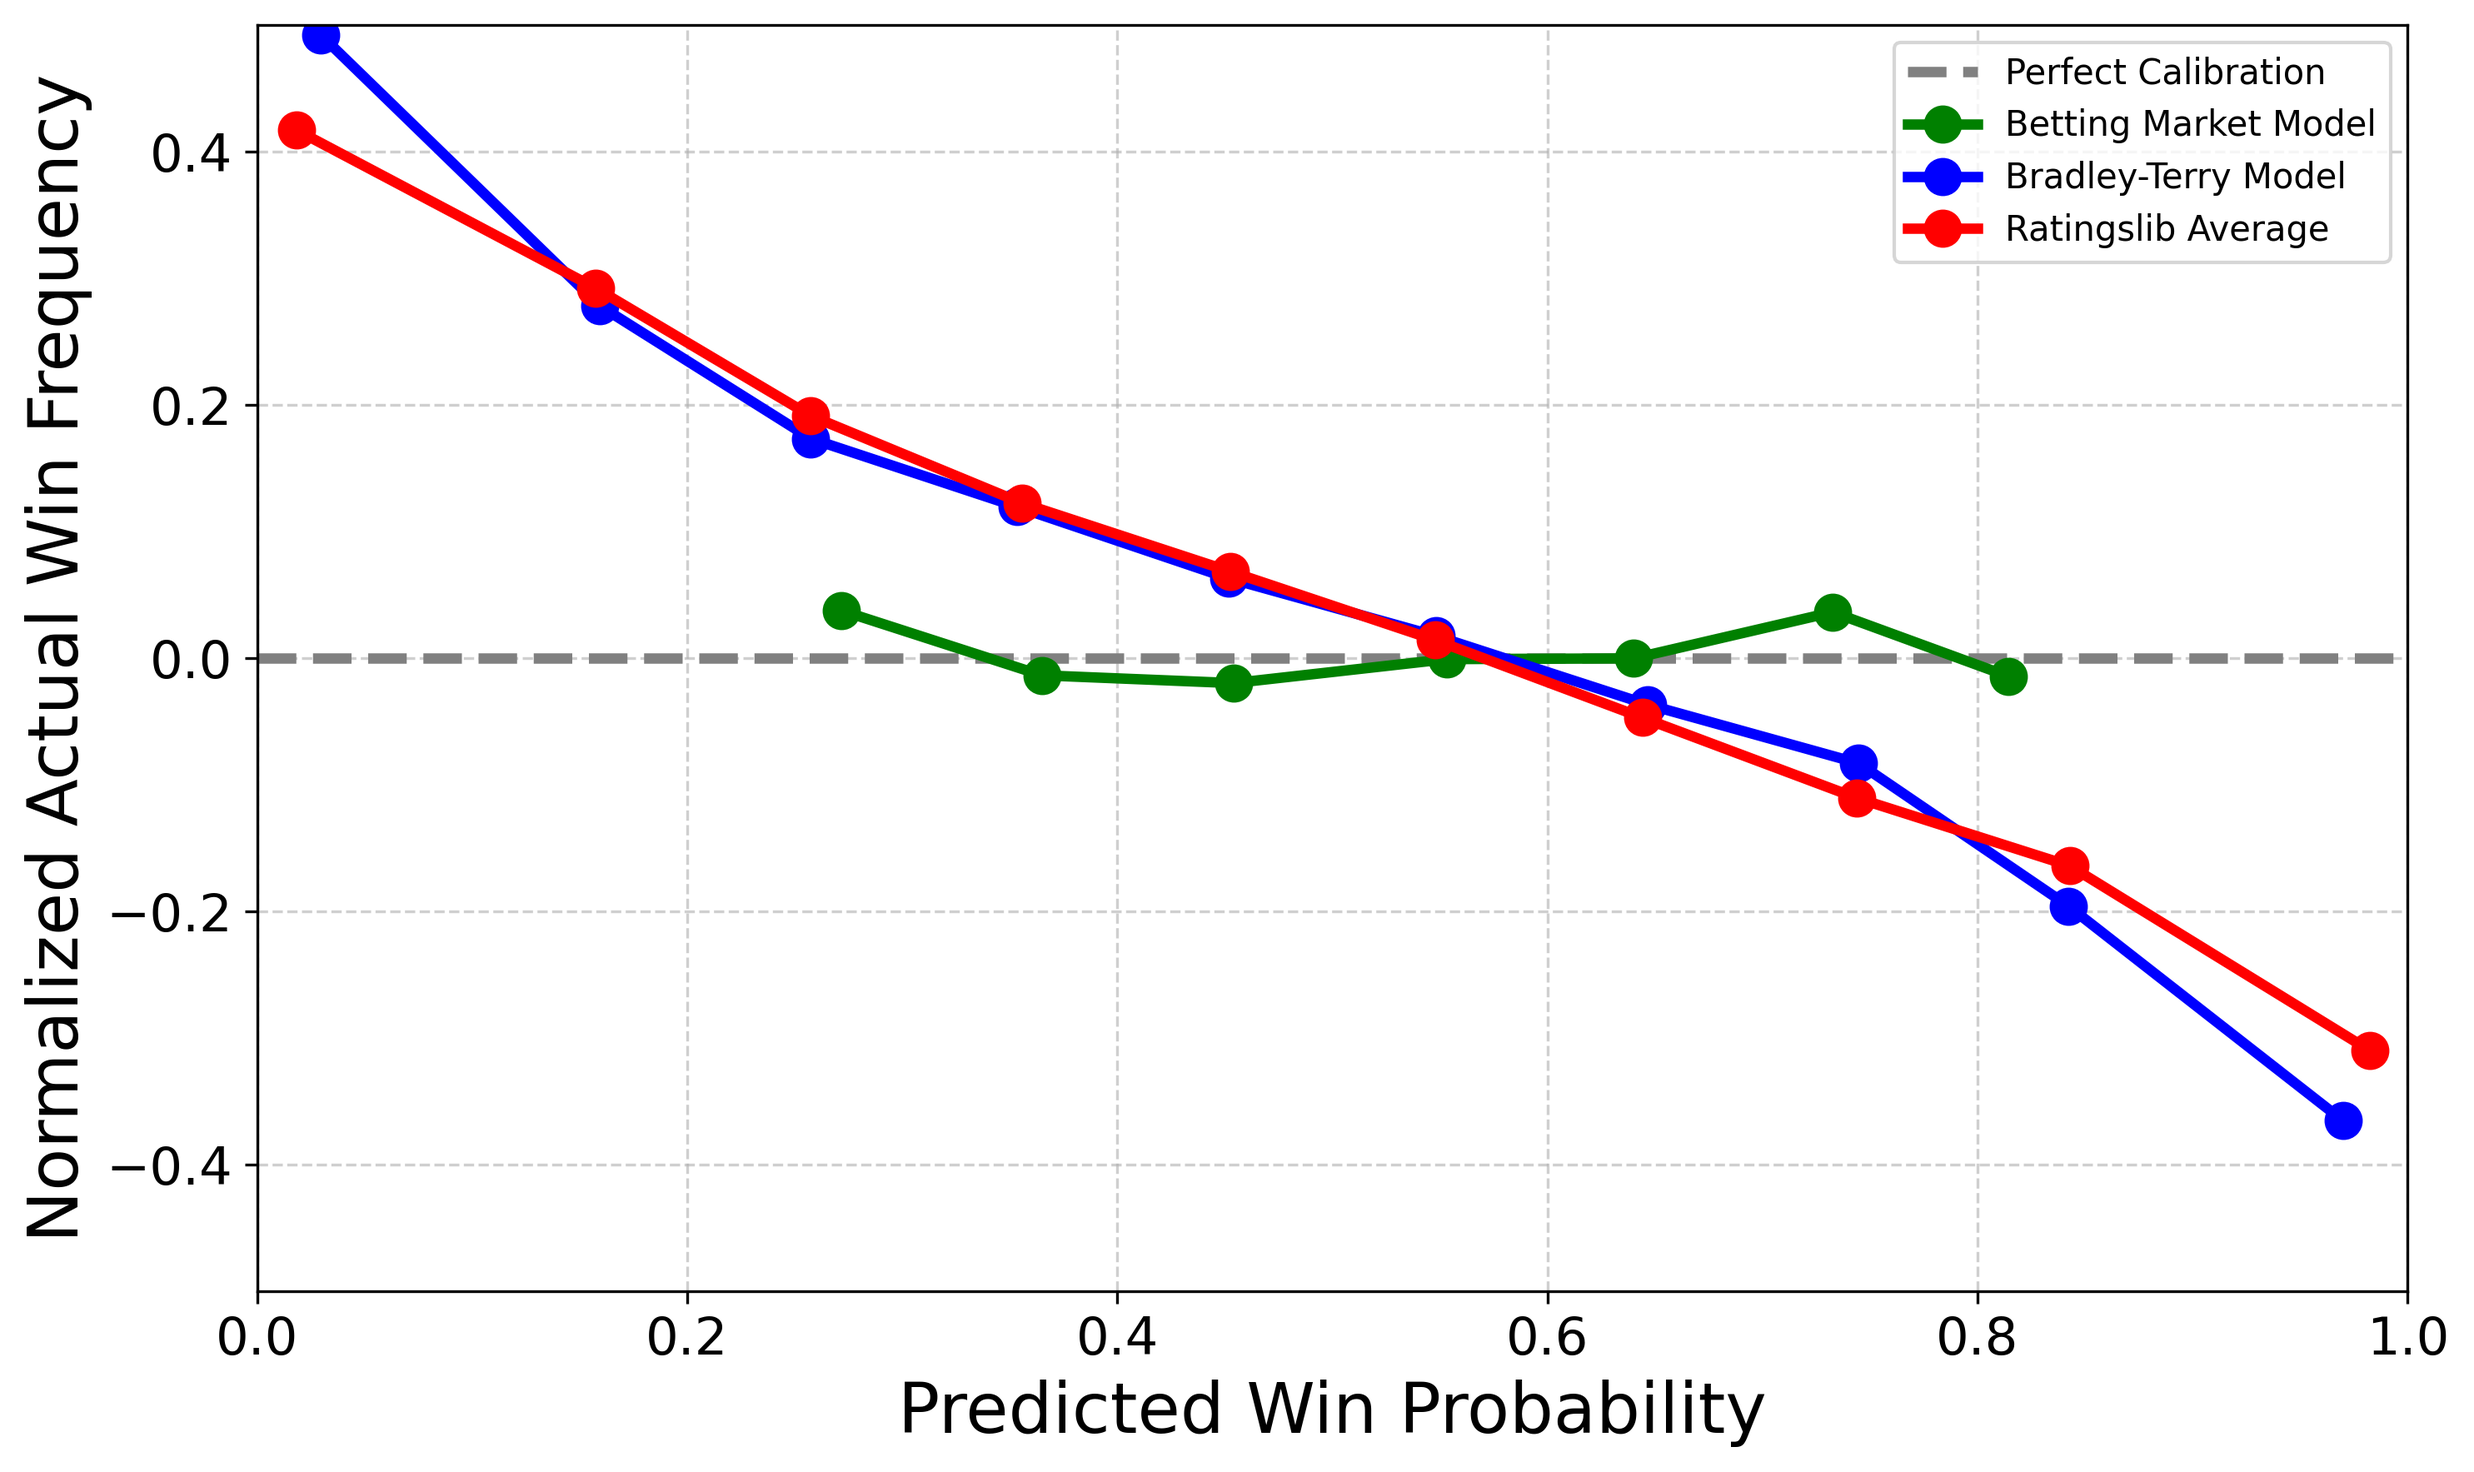
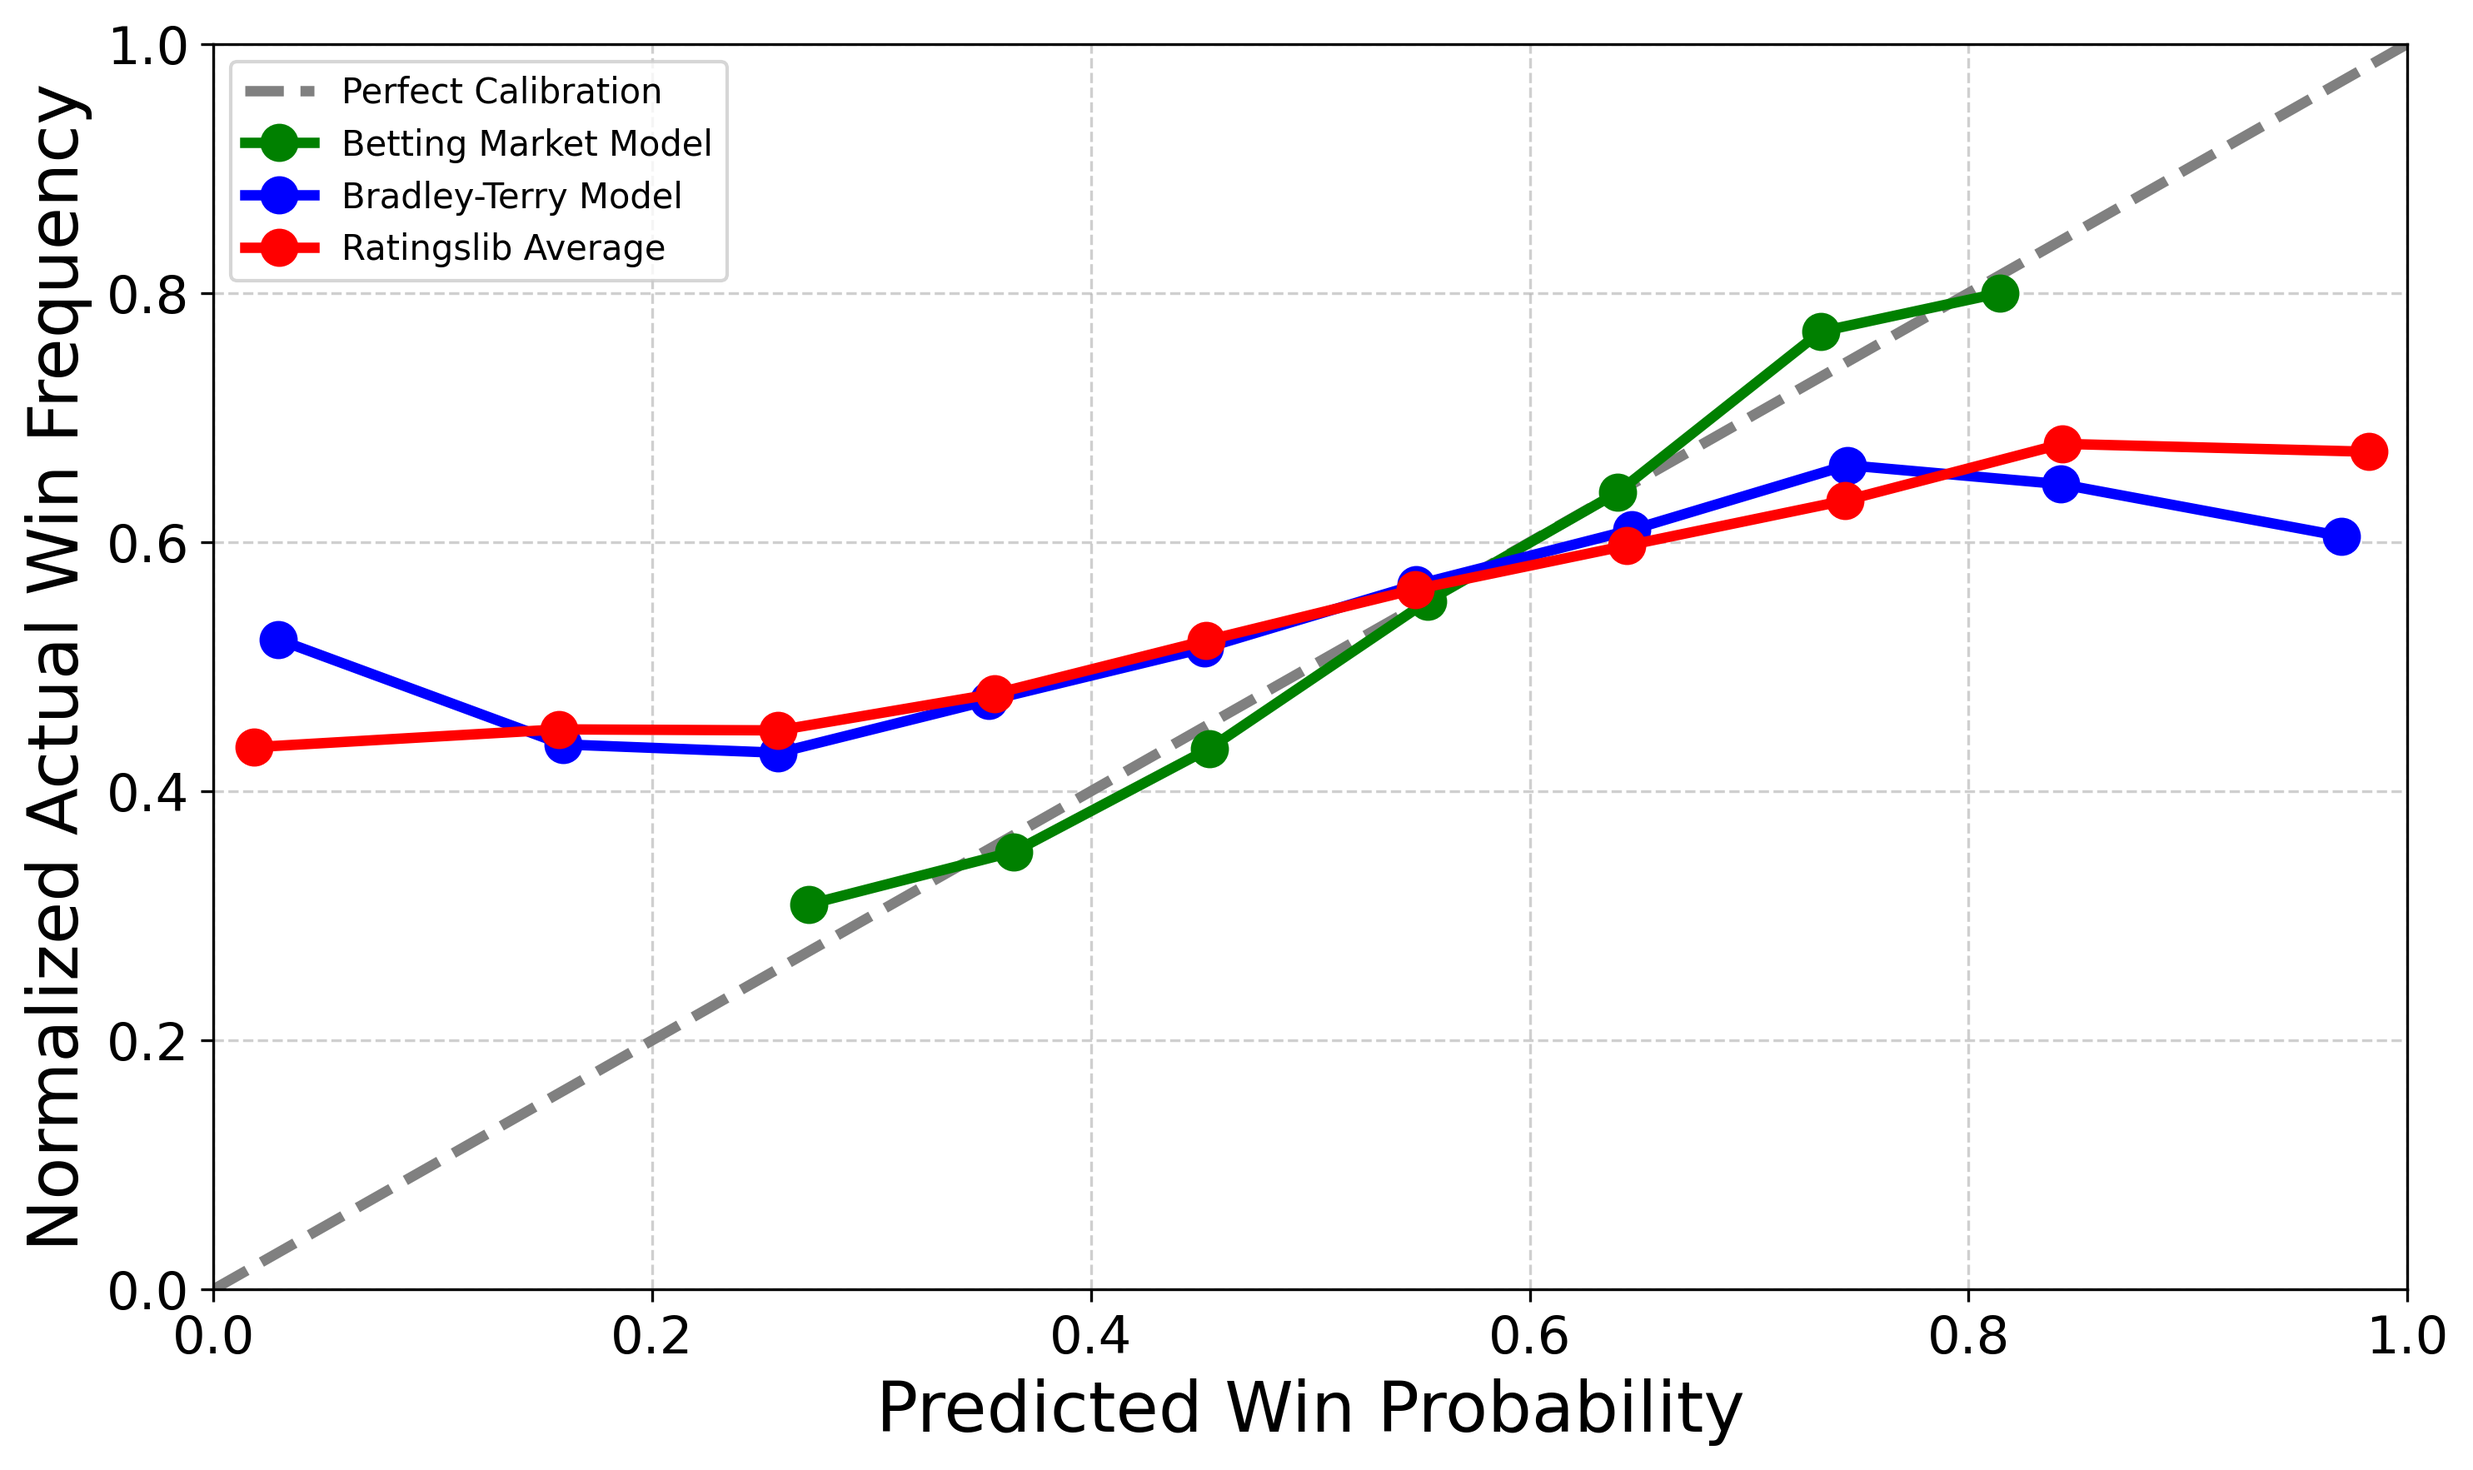
changed calibration plots to be diagonal

diff --git a/src/graphing/calibration.py b/src/graphing/calibration.py
@@ -29,9 +29,9 @@ for league in leagues:
     for half in halves:
 
         plt.figure(figsize=(10, 6))
-        plt.plot([0, 1], [0, 0], linestyle='--', color='gray', label='Perfect Calibration',linewidth=3, markersize=10)
+        plt.plot([0, 1], [0, 1], linestyle='--', color='gray', label='Perfect Calibration',linewidth=3, markersize=10)
         plt.xlim(0, 1)
-        plt.ylim(-0.5, 0.5)
+        plt.ylim(0, 1)
         plt.xlabel('Predicted Win Probability', fontsize=20)
         plt.ylabel('Normalized Actual Win Frequency', fontsize=20)
         plt.legend(fontsize=15)
@@ -73,8 +73,8 @@ for league in leagues:
             distribution_data.append(elo_prop_row)
             
 
-            plt.plot(prob_pred1, prob_true1 - prob_pred1, marker='o', label='Betting Market Model', color='green',linewidth=3, markersize=10)
-            plt.plot(prob_pred2, prob_true2 - prob_pred2, marker='o', label='Elo Model', color='magenta',linewidth=3, markersize=10)
+            plt.plot(prob_pred1, prob_true1, marker='o', label='Betting Market Model', color='green',linewidth=3, markersize=10)
+            plt.plot(prob_pred2, prob_true2, marker='o', label='Elo Model', color='magenta',linewidth=3, markersize=10)
 
         else:
             ml_df = ml_df[ml_df[['avg_prob_1']].notnull().all(axis=1)]
@@ -92,7 +92,7 @@ for league in leagues:
             ml_prop_row.update({f'bin_{i+1}': val for i, val in enumerate(ml_props)})
             distribution_data.append(ml_prop_row)
 
-            plt.plot(prob_pred1, prob_true1 - prob_pred1, marker='o', label='Betting Market Model', color='green',linewidth=3, markersize=10)
+            plt.plot(prob_pred1, prob_true1, marker='o', label='Betting Market Model', color='green',linewidth=3, markersize=10)
 
 
         bt_df = pd.read_csv(bradley_terry_path)
@@ -110,7 +110,7 @@ for league in leagues:
         bt_prop_row.update({f'bin_{i+1}': val for i, val in enumerate(bt_props)})
         distribution_data.append(bt_prop_row)
 
-        plt.plot(prob_pred1, prob_true1 - prob_pred1, marker='o', label='Bradley-Terry Model', color='blue',linewidth=3, markersize=10)
+        plt.plot(prob_pred1, prob_true1, marker='o', label='Bradley-Terry Model', color='blue',linewidth=3, markersize=10)
 
 
 
@@ -172,7 +172,7 @@ for league in leagues:
         ratingslib_avg = [sum(x) / len(x) for x in zip(*[prob_true1, prob_true2, prob_true3, prob_true4, prob_true5])]
 
 
-        plt.plot(prob_pred1, ratingslib_avg - prob_pred1, marker='o', label='Ratingslib Average', color='red', linewidth=3, markersize=10)
+        plt.plot(prob_pred1, ratingslib_avg, marker='o', label='Ratingslib Average', color='red', linewidth=3, markersize=10)
 
 
         plt.legend()
